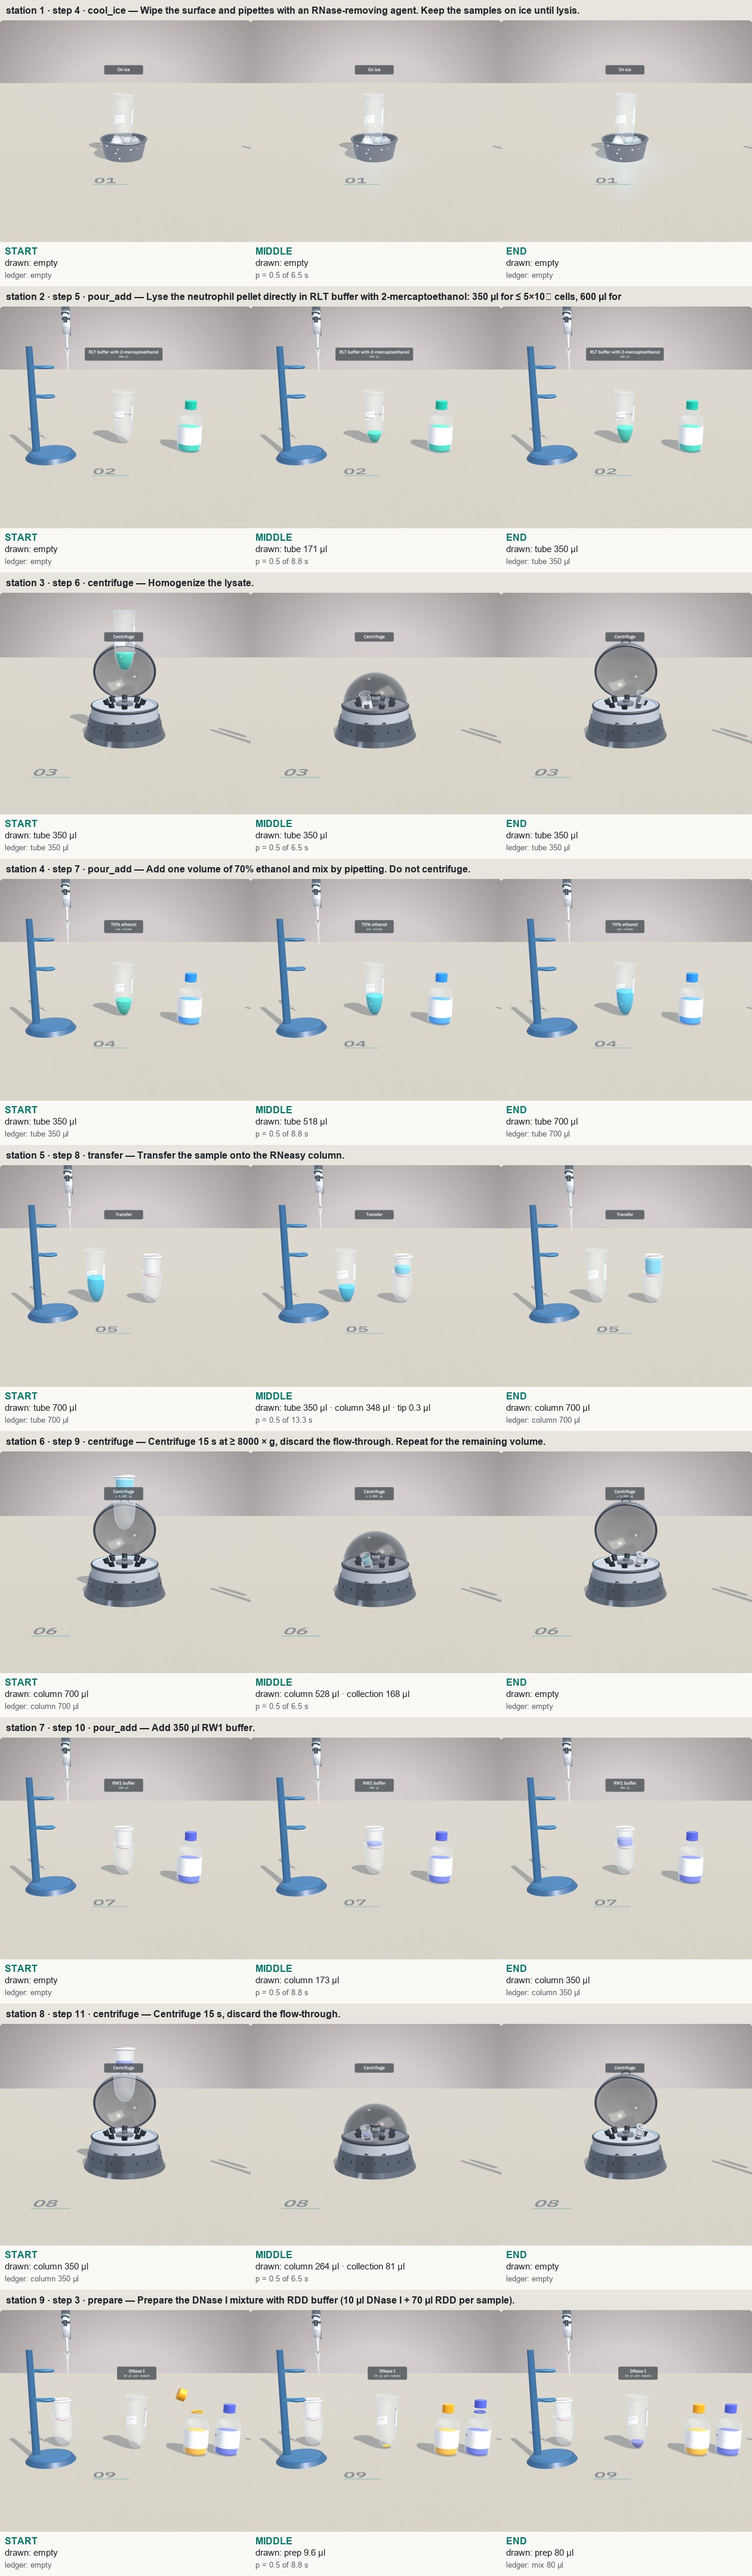
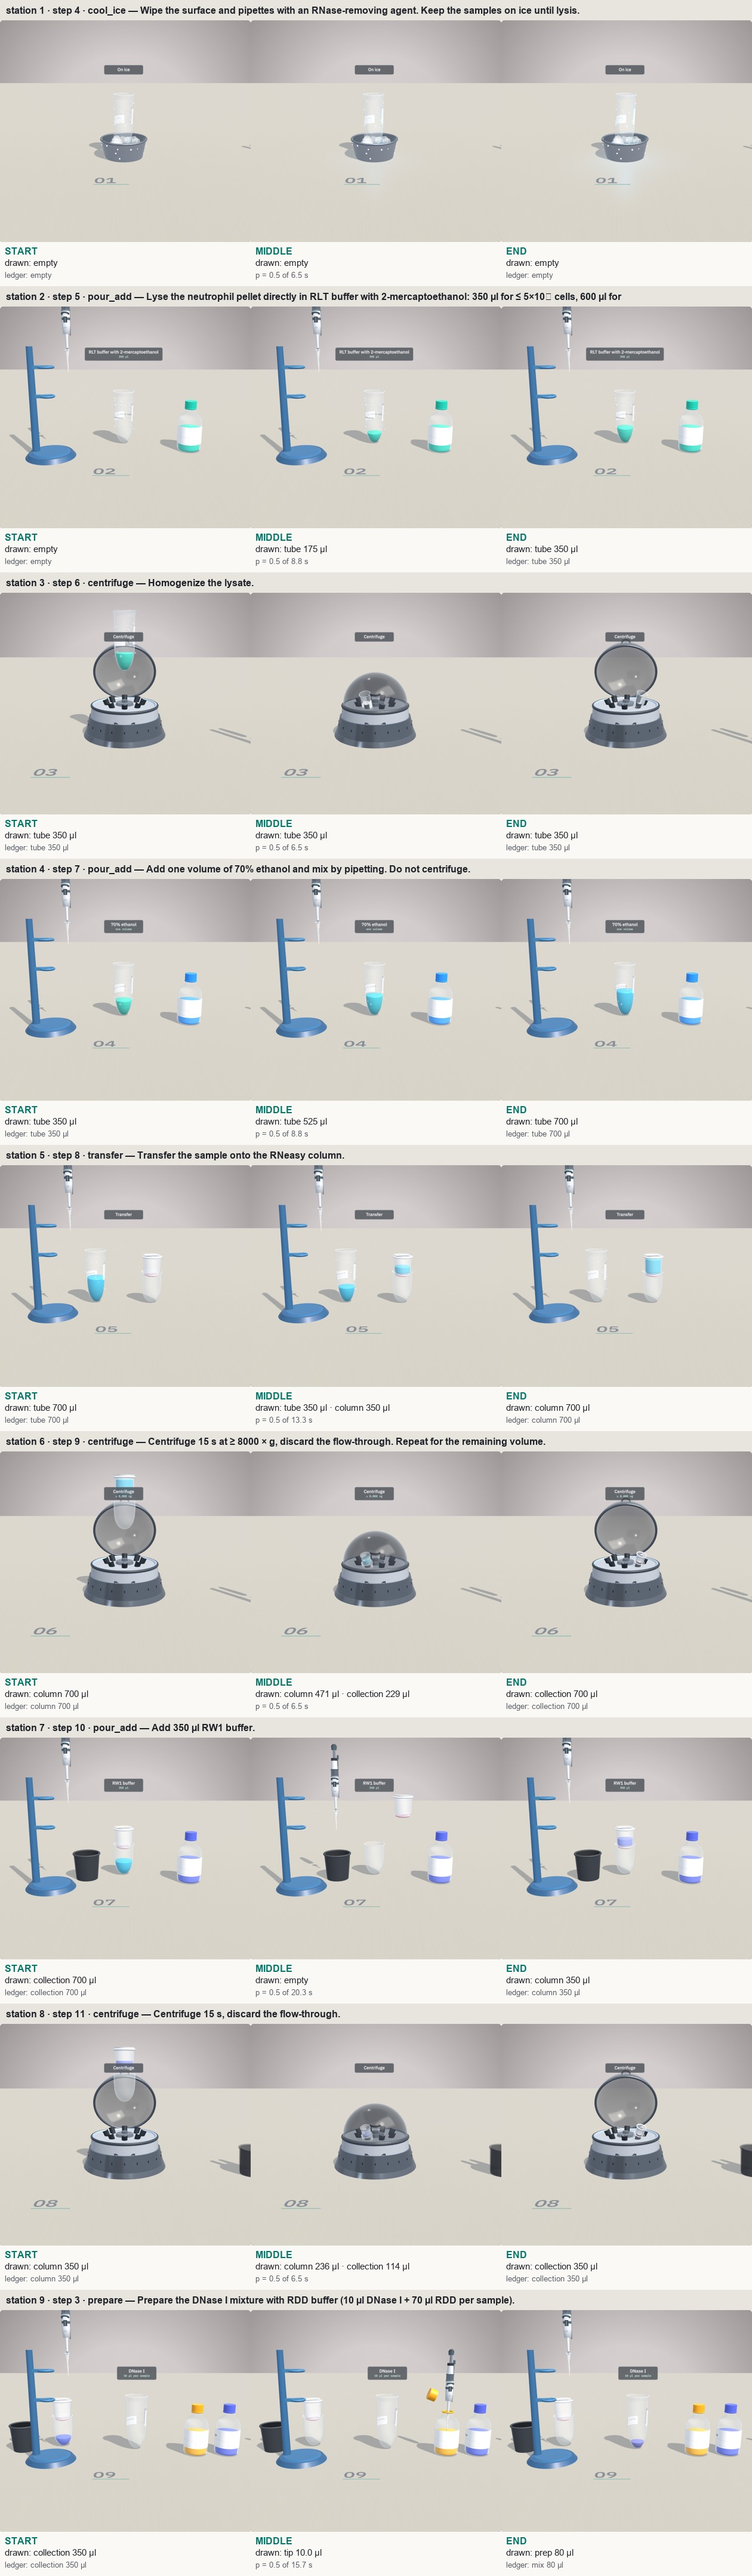
docs: one-clock liquid rule; the frame-check report and its before/after sheet

diff --git a/web/frontend/scripts/liquid-frames-sheet.py b/web/frontend/scripts/liquid-frames-sheet.py
@@ -1,0 +1,69 @@
+#!/usr/bin/env python3
+"""liquid-frames-sheet.py — the frames where the liquid invariant failed, BEFORE and AFTER the fix,
+side by side; under each tile every vessel's drawn volume and colour (hex), and what failed there.
+
+  python3 scripts/liquid-frames-sheet.py [dev-shots/liquid-frames] [dev-shots/liquid-frames-before.json]
+Inputs: <dir>/before/NN_fK.png|json and <dir>/after/NN_fK.png|json (scripts/liquid-frames.mjs --snap).
+"""
+import json, os, sys
+from PIL import Image, ImageDraw, ImageFont
+
+d = sys.argv[1] if len(sys.argv) > 1 else 'dev-shots/liquid-frames'
+rep = json.load(open(sys.argv[2] if len(sys.argv) > 2 else 'dev-shots/liquid-frames-before.json'))
+bad = {(r['station'], b['frame']): [] for r in rep for b in r['bad']}
+for r in rep:
+    for b in r['bad']: bad[(r['station'], b['frame'])].append(b)
+act = {r['station']: r['action'] for r in rep}
+
+def font(sz, bold=False):
+    for f in (['/System/Library/Fonts/Supplemental/Arial Bold.ttf'] if bold else []) + ['/System/Library/Fonts/Supplemental/Arial.ttf']:
+        if os.path.exists(f): return ImageFont.truetype(f, sz)
+    return ImageFont.load_default()
+F, FB, FS = font(14), font(15, True), font(13)
+NAMES = {'tube': 'tube', 'column': 'column', 'flow': 'collection', 'elu': 'eluate', 'prep0': 'DNase mix', 'waste': 'waste', 'source r': 'bottle', 'source r0': 'bottle 1', 'source r1': 'bottle 2'}
+def fmt(ul): return f"{ul:.1f} µl" if ul < 1000 else f"{ul/1000:.3f} mL"
+def lines(fr):
+    out = []
+    for k, v in fr['vessels'].items():
+        if k.startswith('source') and v['ul'] > 100000: out.append(f"{NAMES.get(k, k)} {v['ul']/1000:.3f} mL {v['color'] or ''}"); continue
+        if v['ul'] < 0.05 and k not in ('tube', 'column', 'flow', 'elu'): continue
+        out.append(f"{NAMES.get(k, k)} {fmt(v['ul'])} {(v['color'] or '') if v['ul'] >= 0.05 else '(empty)'}")
+    if fr.get('tip'): out.append(f"tip {fmt(fr['tip']['ul'])} {fr['tip']['color'] if fr['tip']['ul'] >= 0.05 else '(empty)'}")
+    return out
+
+snaps = sorted({f[:-4] for f in os.listdir(os.path.join(d, 'before')) if f.endswith('.png')})
+TW, TH = 560, 495
+rows = []
+for name in snaps:
+    s, k = int(name[:2]), int(name.split('_f')[1])
+    pair = []
+    for side in ('before', 'after'):
+        p = os.path.join(d, side, name + '.png')
+        pair.append((Image.open(p).convert('RGB') if os.path.exists(p) else None, json.load(open(p[:-4] + '.json')) if os.path.exists(p[:-4] + '.json') else None))
+    rows.append((s, k, pair))
+PER = 6
+for pi in range(0, len(rows), PER):
+    page = rows[pi:pi + PER]
+    hs = []
+    for s, k, pair in page:
+        n = max(len(lines(fr)) if fr else 0 for _, fr in pair)
+        hs.append(28 + 22 * min(3, len(bad.get((s, k), []))) + TH + 18 * n + 16)
+    W, Hh = 2 * TW + 10, sum(hs)
+    sheet = Image.new('RGB', (W, Hh), (250, 249, 246)); g = ImageDraw.Draw(sheet)
+    y = 0
+    for (s, k, pair), h in zip(page, hs):
+        g.rectangle([0, y, W, y + 26], fill=(232, 229, 222))
+        g.text((8, y + 5), f"station {s} · {act.get(s, '')} · frame {k}" + ("  (station entry)" if k == 0 else ''), font=FB, fill=(30, 34, 40))
+        g.text((TW + 18, y + 5), "BEFORE (cbcb0cb)                       AFTER", font=FB, fill=(30, 34, 40))
+        y += 28
+        for b in bad.get((s, k), [])[:3]:
+            g.text((8, y), f"x {b['check']}: {b['vessel']} — {b['detail']}", font=F, fill=(170, 40, 40)); y += 22
+        for i, (im, fr) in enumerate(pair):
+            x = i * (TW + 10)
+            if im: sheet.paste(im.resize((TW, TH)), (x, y))
+            g.text((x + 6, y + 6), 'BEFORE' if i == 0 else 'AFTER', font=FB, fill=(170, 40, 40) if i == 0 else (2, 120, 106))
+            if fr:
+                for j, t in enumerate(lines(fr)): g.text((x + 8, y + TH + 4 + 18 * j), t, font=FS, fill=(30, 34, 40))
+        y = y - 28 - 22 * min(3, len(bad.get((s, k), []))) + h
+    out = os.path.join(d, f'liquid-frames-sheet-{pi // PER + 1}.png')
+    sheet.save(out); print(out)

diff --git a/docs/liquid-frames-report.md b/docs/liquid-frames-report.md
@@ -1,0 +1,94 @@
+# Liquids move only with their transfer — neutrophil_rna (branch `polish`)
+
+Review finding on the preview: (1) a tube's level kept dropping after the pipette had left it;
+(2) a liquid's colour changed when nothing was added.
+
+## Cause — where volume and colour followed station progress or their own clock, not the transfer
+
+1. **Every liquid eased on its own clock.** `buildTube`, `buildSpinColumn` (and its flow-through), the
+   flat vessels, the pipette tip and the bottles each chased their target with their own
+   exponential `lerp(…, 1 − 0.00x^dt)`, in level AND colour. The station set a target from its
+   progress p; the drawn level kept moving for ~1 s after the tip left, a colour drifted after the
+   inflow ended, and tip + vessel were never equal in a frame. (`demoScene.js`, each builder's `update`)
+2. **The tip drew in the air.** `pipPhaseA` drew while the tip rose out of the source, and it only
+   went down to `from.y + 0.72` — above a bottle's liquid, and above a draining tube's.
+3. **Colour keyframes.** `evolve()` set the end colour at p > 0.5; the flow-through took its mixed
+   colour on the first spin frame (`setFlowColor(e > 0 ? … )`).
+4. **"Discard the flow-through" drained in place** in the rotor (no transfer at all).
+5. **Hidden vessels kept another station's volume.** Only the station's own vessel was set on entry,
+   so the collection tube, the clean tube and the DNase mix entered holding what some other
+   station had left them, then animated to theirs (boundary jumps; level changes with no transfer).
+6. **Elution filled the eluate tube without draining the column** (not drawn, but not conserved).
+7. A 0.004-level / 0.01-fill visibility threshold and the lathe's 0.001 floor dropped up to 0.7 µl
+   in and out of sight.
+
+## The check (red first)
+
+`src/dev/liquidFrames.js` + `scripts/liquid-frames.mjs`: on the live runner, every neutrophil station
+is run frame by frame (60 frames per second of its duration — finer than 1/60 of it) and what is
+DRAWN is read back (each liquid through its drawn shape, its material colour, the tip's position).
+It fails when (a) a volume changes while no transfer to or from it is active — the tip below the
+surface (drawing) / inside the target (dispensing) with its contents changing the other way, the
+vessel riding a turning rotor, or a connecting stream; (b) a colour changes with nothing flowing in,
+or the tip is not its source's colour; (c) vessels + tip are not conserved in a frame (> 0.5 µl);
+(d) a station starts other than the previous one ended. The checker itself is proven red on
+synthetic frames (`liquidFrames.test.js`, 5 tests).
+
+**Before the fix (cbcb0cb): 18 of 26 stations red** — a 1649, b 115, c 2165, d 3 violation-frames:
+
+| station | step | a | b | c | d | first |
+|---|---|---|---|---|---|---|
+| 2 | step 5 pour_add | 191 (frames 104–612) | — | 123 (frames 112–612) | — | source r: -0.05 µl with no transfer (the tip is in it but holds still) |
+| 4 | step 7 pour_add | 191 (frames 117–474) | 32 (frames 264–577) | 133 (frames 125–573) | — | source r: -0.05 µl with no transfer (the tip is in it but holds still) |
+| 5 | step 8 transfer | 99 (frames 97–857) | — | 320 (frames 95–857) | — | tube: -8.88 µl with no transfer (the tip is above the liquid) |
+| 6 | step 9 centrifuge | 2 (frames 655–660) | 18 (frames 365–408) | 148 (frames 364–660) | — | flow: -1.11 µl with no transfer |
+| 7 | step 10 pour_add | 193 (frames 117–600) | — | 115 (frames 125–600) | — | source r: -0.05 µl with no transfer (the tip is in it but holds still) |
+| 8 | step 11 centrifuge | 2 (frames 653–656) | 9 (frames 370–401) | 162 (frames 368–656) | — | flow: -1.06 µl with no transfer |
+| 9 | step 3 prepare | 18 (frames 1–616) | 47 (frames 514–595) | 98 (frames 1–616) | 1 (frame 0) | prep0: -9.29 µl with no transfer |
+| 10 | step 12 pour_add | 26 (frames 256–568) | — | 65 (frames 255–568) | — | prep0: -4.34 µl with no transfer |
+| 12 | step 14 pour_add | 194 (frames 105–602) | 5 (frames 251–302) | 116 (frames 113–602) | — | source r: -0.05 µl with no transfer (the tip is in it but holds still) |
+| 13 | step 15 centrifuge | 1 (frame 657) | 2 (frames 367–370) | 148 (frames 366–657) | — | flow: -1.33 µl with no transfer |
+| 14 | step 16 pour_add | 284 (frames 110–731) | — | 172 (frames 116–731) | — | source r: -0.05 µl with no transfer (the tip is in it but holds still) |
+| 15 | step 17 centrifuge | — | 2 (frames 367–369) | 119 (frames 366–590) | — | flow: #5161da → #5061da with nothing flowing in |
+| 16 | step 18 pour_add | 284 (frames 110–731) | — | 172 (frames 116–731) | — | source r: -0.05 µl with no transfer (the tip is in it but holds still) |
+| 17 | step 19 centrifuge | 28 (frames 1–100) | — | 157 (frames 1–589) | 1 (frame 0) | flow: +24.81 µl with no transfer |
+| 18 | step 20 transfer | 28 (frames 1–41) | — | 28 (frames 1–41) | 1 (frame 0) | tube: -79.19 µl with no transfer |
+| 19 | step 21 centrifuge | 31 (frames 1–47) | — | 31 (frames 1–47) | — | flow: -105.02 µl with no transfer |
+| 20 | step 22 pour_add | 77 (frames 141–469) | — | 39 (frames 360–469) | — | source r: -0.05 µl with no transfer (the tip is above the liquid) |
+| 22 | step 24 elute | — | — | 19 (frames 389–571) | — | Σ: vessels + tip +0.98 µl in one frame |
+**After: 26 of 26 green** (`node scripts/liquid-frames.mjs`, exit 0). Full suite: 463 passed
+(the 78 liquid-ledger proofs and the 5 checker tests among them). Build clean.
+
+Evidence: `docs/liquid-frames/liquid-frames-sheet-{1..7}.jpg` — every station's first frame of each
+failing check, before and after, with each vessel's drawn volume and colour (hex) under the tile and
+what failed above it. The per-station start / middle / end sheet is regenerated:
+`docs/liquid-sheet/neutrophil_rna-{1,2,3}.jpg`.
+
+## The fix
+
+- **One clock.** In volume mode every builder draws its level and colour exactly as set this frame —
+  no easing of its own; the transfer that sets them is the only clock. A volume hides only at 0 µl;
+  the lathe floor is 1e-5.
+- **The tip draws only below the surface:** over the source, down (to 0.1 under a bottle's line, to a
+  tube's floor), hold and draw, up full; the source falls on that same curve (`drawProgress`), and
+  dispensing stays on `dispenseProgress` for both tip and target. Every source bottle falls by exactly
+  what its tips drew.
+- **Colour is contents:** a volume-weighted mix recomputed from what has flowed in; no keyframes;
+  the flow-through mixes in as the rotor moves it; the tip carries its source's colour.
+- **Every vessel enters at the ledger's start** (hidden ones and not-yet-made mixes too: 0 µl).
+- **"Discard the flow-through" is done at the bench**, at the next station with the column (it is
+  seated in the rotor until then): the column lifts out and stands aside (held), the station's own
+  pipette draws the flow-through from below its surface, a 200 µl tip at a time, into a waste beaker,
+  and the column goes back. (A tipped tube was tried first and rejected: the liquid is drawn rigid in
+  the tube, so a tube tipped past level kept its liquid at its raised bottom.) The ledger records the
+  discard there.
+- During an elution the (undrawn) column rides in the eluate tube and drains as it fills.
+
+## Unchanged
+
+Camera, framing, sizes, materials, lighting, models: the beaker is the existing `buildWaste`, set out
+of the frame fit (`noFrame`). Collision audit, neutrophil: 17 → 17 collision-red stations, 0 → 0
+motion-red; the discard stations (7, 9, 14) have exactly their previous findings (the rotor-slot ones).
+Runner tiles (neutrophil, vs the previous liquid round): 16 identical, 10 changed — the stations whose
+liquids were wrong, and 7 / 9 / 14, which now carry the discard (longer, so their tile catches it
+mid-way). Stations whose liquid flows now take a little longer (the draw holds at the bottom).

diff --git a/CLAUDE.md b/CLAUDE.md
@@ -208,6 +208,17 @@ continuity n → n+1, doubling, the tip, the neutrophil volumes, every unstated 
   waste passes through the tip, never held.
 - Surfaces (slide, membrane, gel, agar plate) have no drawn interior: their volume is kept, the
   demo's levels draw them. The dev matrix has no ledger and keeps the demo's levels.
+- **One clock: a liquid moves only with its transfer.** A volume changes only while the tip is
+  below the source's surface (drawing) or inside the target (dispensing) with the plunger moving,
+  while the vessel rides a turning rotor, or while a stream connects two vessels — and on that
+  motion's own curve (`drawProgress` / `dispenseProgress`, the tip set in the same frame). Builders
+  in volume mode draw their level and colour AS SET, with no easing of their own. A colour is the
+  volume-weighted mix of what flowed in, and changes only during an inflow; the tip carries its
+  source's colour. Every vessel of the line enters a station at the ledger's start (a hidden one
+  too). "Discard the flow-through" is done at the bench, at the next station with the column: it
+  stands aside and the pipette takes the flow-through into a waste beaker, a tip at a time.
+  Proof: `node scripts/liquid-frames.mjs` (dev server) checks every frame of every station and
+  exits 1 on any violation (`src/dev/liquidFrames.js`, proven red by `liquidFrames.test.js`).
 - `node scripts/liquid-sheet.mjs [--protocol id]` (dev server): every station at start, middle
   and end, the ledger volume beside what the scene draws (read back through the drawn shape).
 
